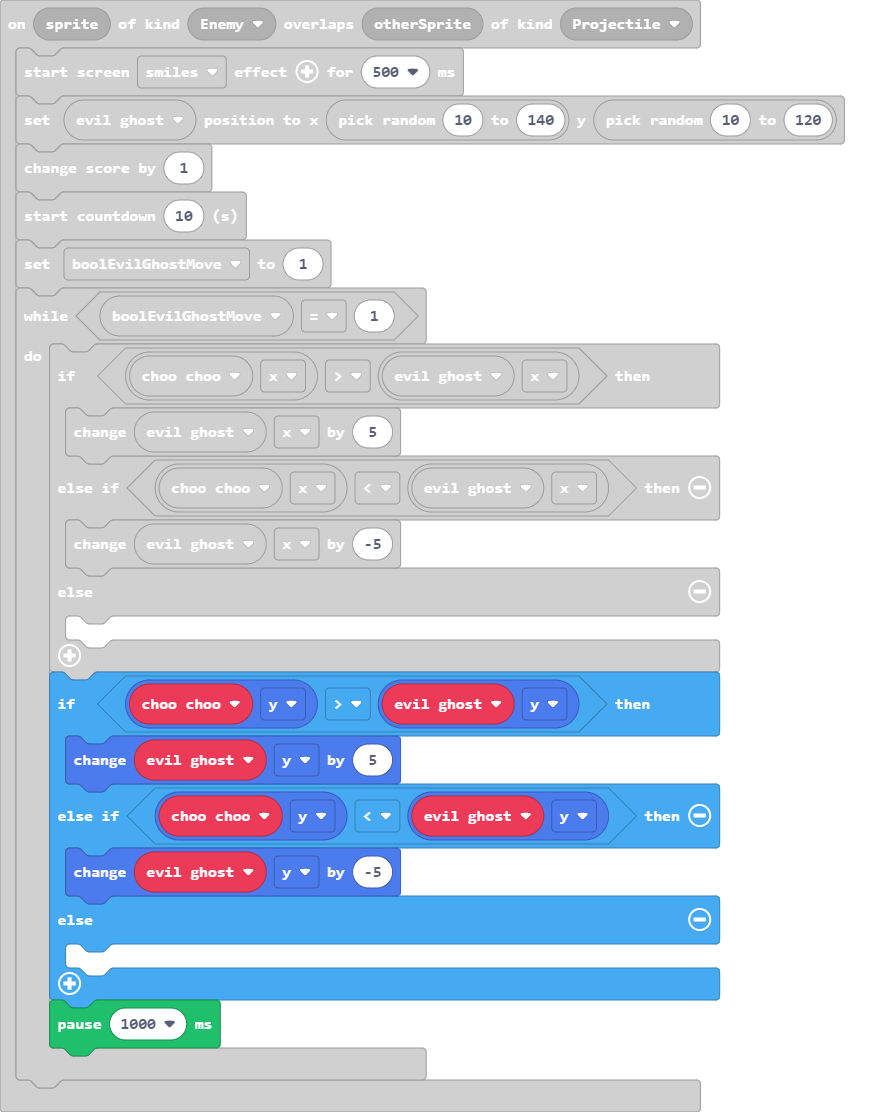
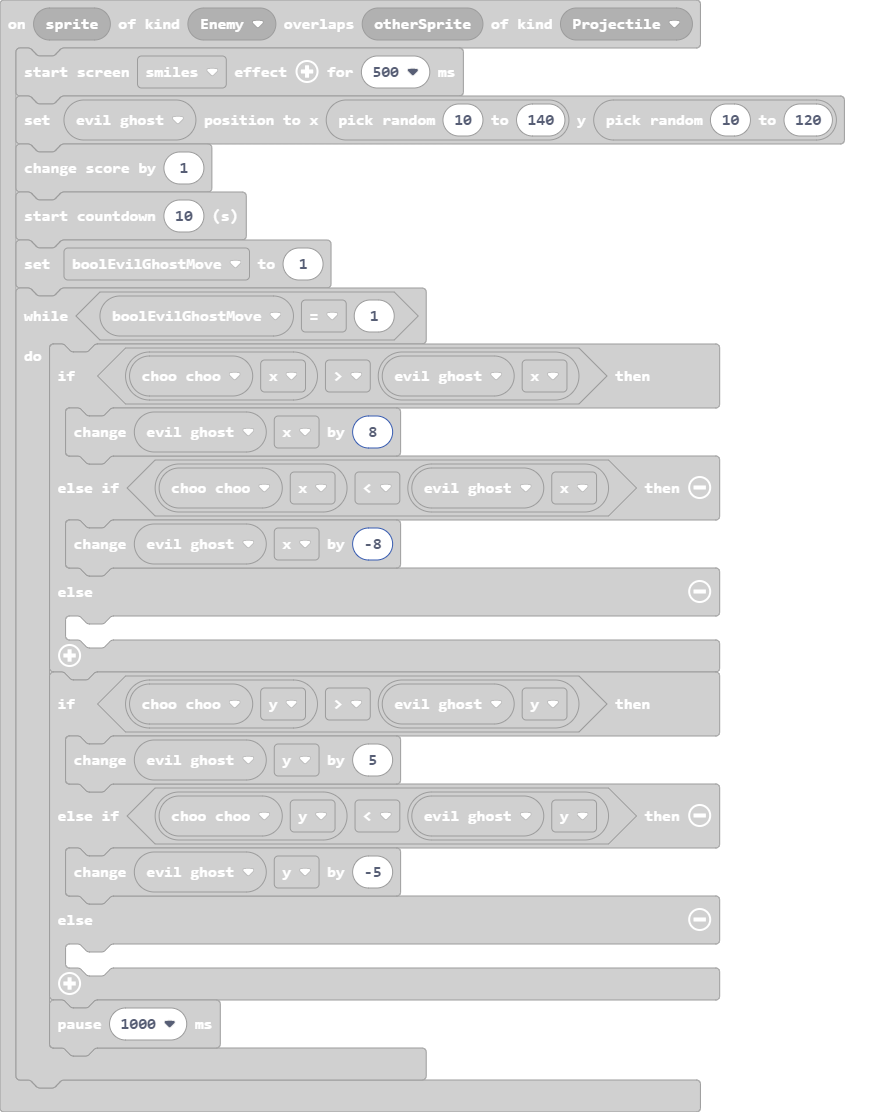
Made the evilghost move faster to chase (#1)

Changed region(s): [[0.0312, 0.5809, 0.8125, 0.9478], [0.4062, 0.3669, 0.4375, 0.3975]]

diff --git a/main.ts b/main.ts
@@ -46,9 +46,9 @@ sprites.onOverlap(SpriteKind.Enemy, SpriteKind.Projectile, function (sprite, oth
     boolEvilGhostMove = 1
     while (boolEvilGhostMove == 1) {
         if (choo_choo.x > evil_ghost.x) {
-            evil_ghost.x += 5
+            evil_ghost.x += 8
         } else if (choo_choo.x < evil_ghost.x) {
-            evil_ghost.x += -5
+            evil_ghost.x += -8
         } else {
         	
         }
